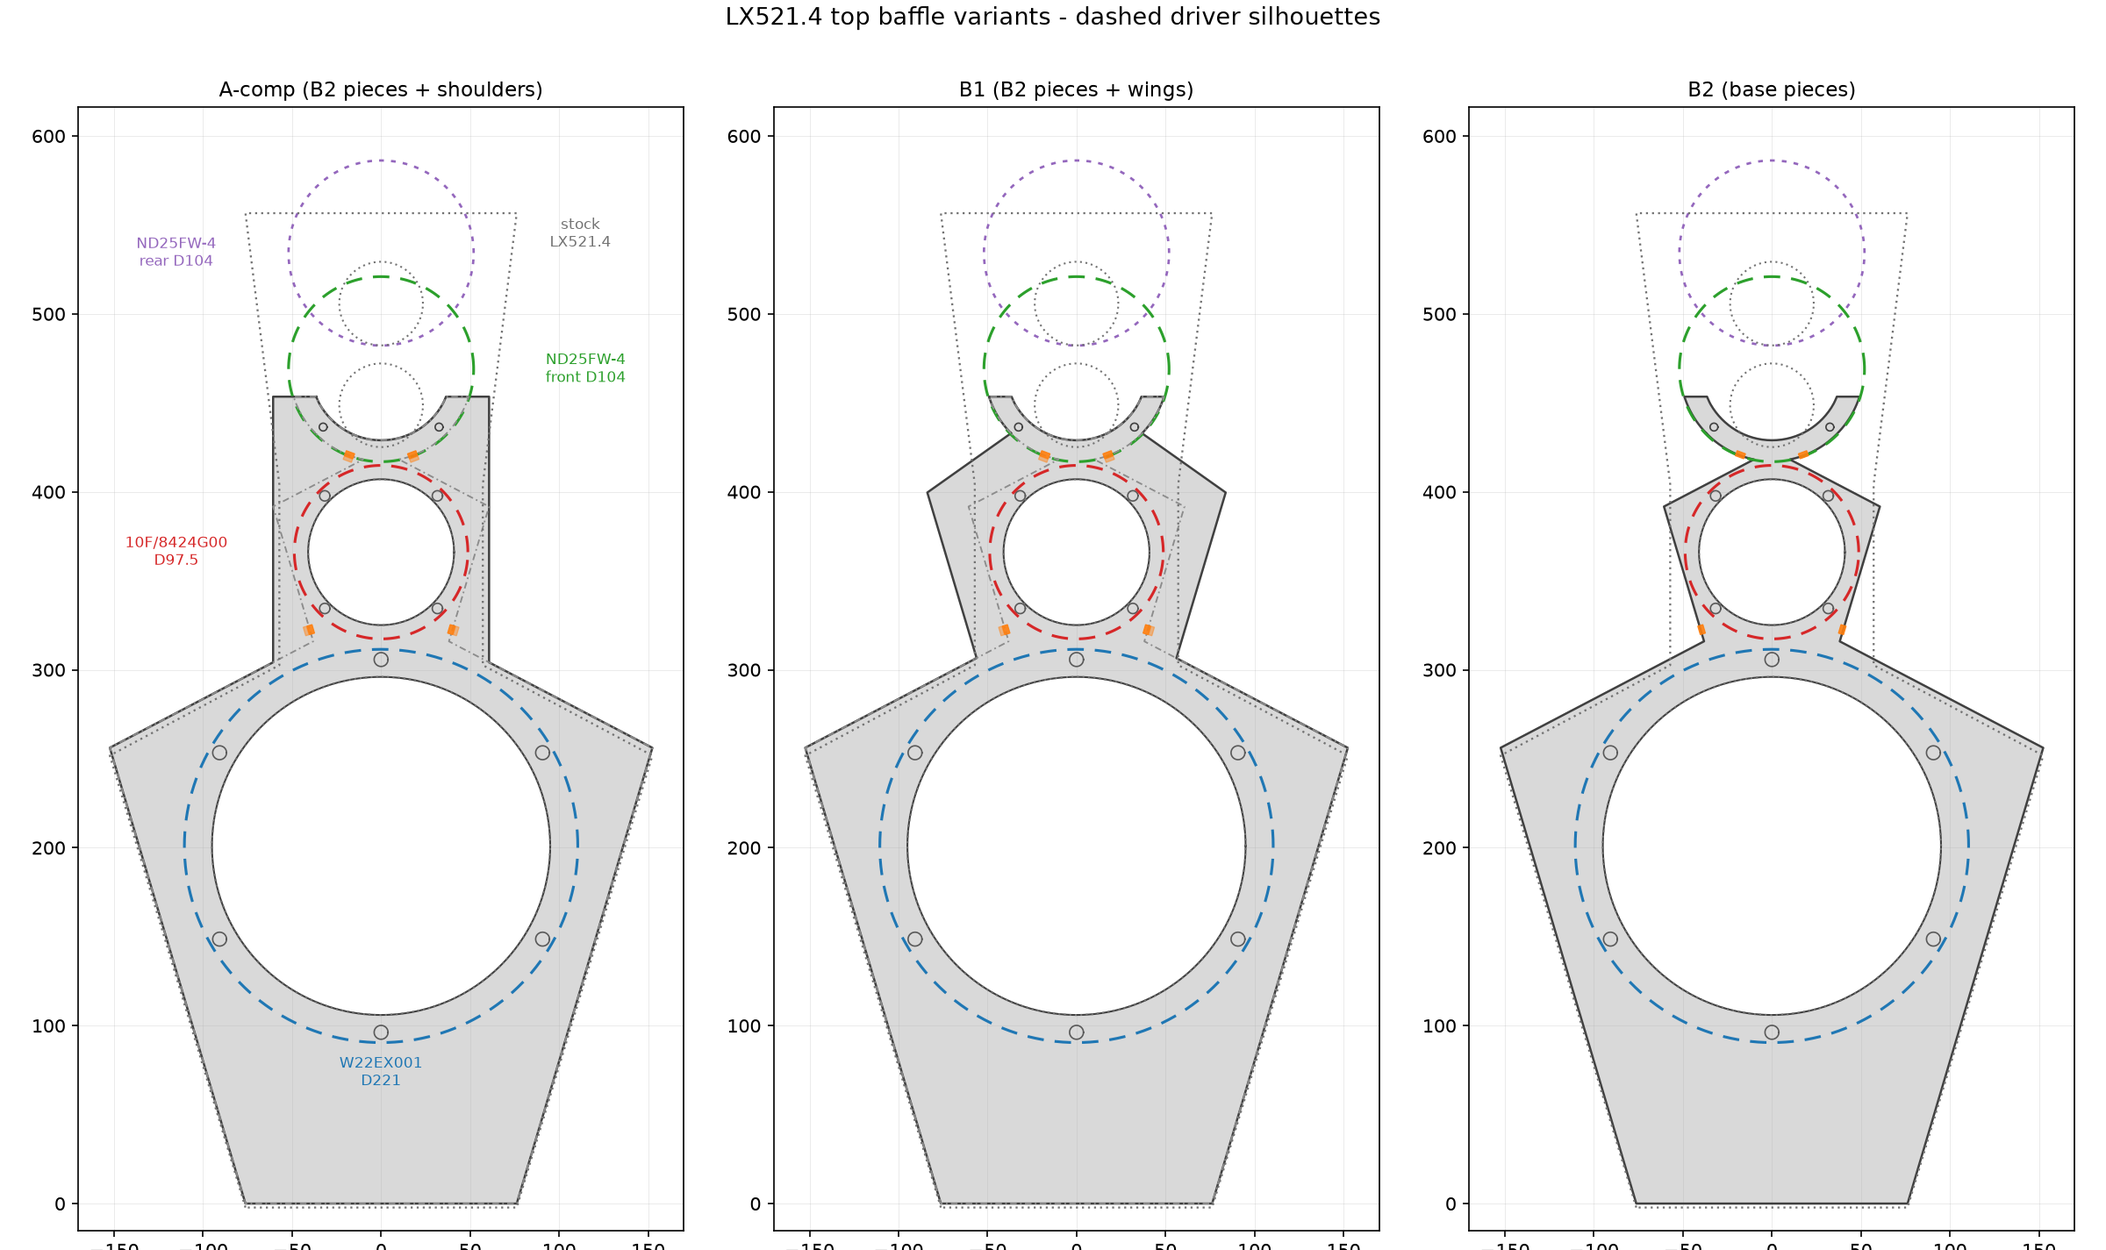
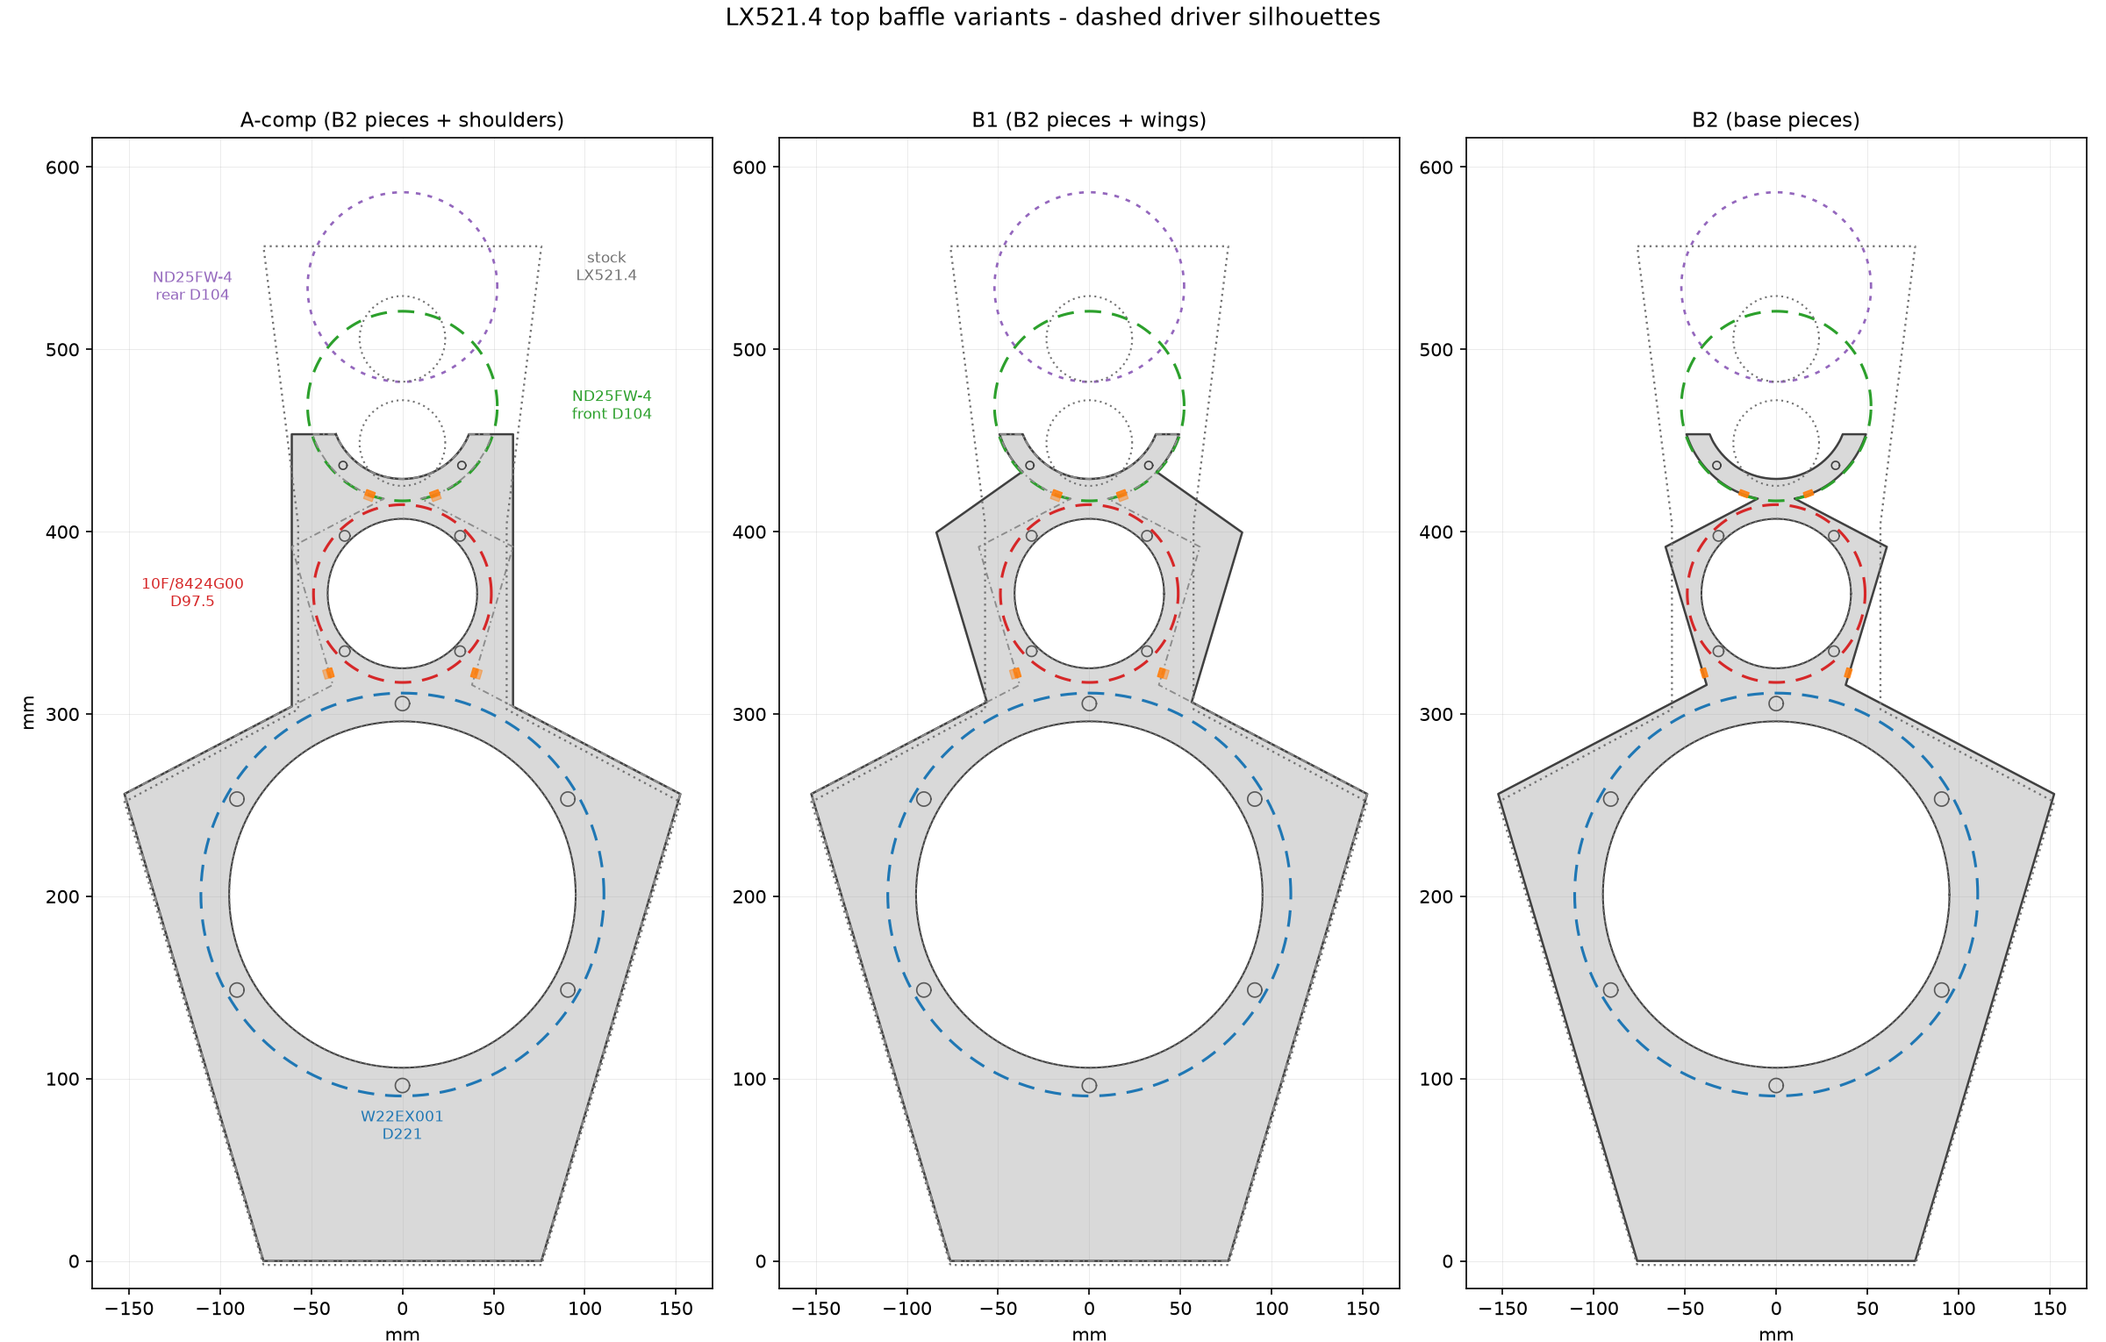
Make routing/overlay PNGs proper orthographic views
gen_cable_routing.py now renders front (x,y) + full-height side view
(z,y, shared height axis) for both stand-foot states, plus the foot
top view (x,z, shared width axis) and the legend in the spare grid
cell. The side view is computed from the real geometry (sampled duct
splines, ramp/exit axes, pilot depth bands, crescent taper profile via
_crescent_taper_depth), so the z story -- duct planes 9.15/3.7, blind
pilots, 4.0 clamp seat, R14 foot elbows, D20-window ramp dives -- is
finally drawn, not just described.

Also: fix clipped x tick labels and add mm axis labels on the variants
panel; derive the top-view plate band width instead of hardcoding 126;
move corner labels off the drawn geometry.

diff --git a/top_baffle_v2/gen_cable_routing.py b/top_baffle_v2/gen_cable_routing.py
@@ -1,8 +1,20 @@
-"""Render the internal cable routing over the B2 baffle. Faithful: samples
-the SAME build123d spline used to cut the ducts (no re-smoothing), plus the
-straight plan track of each entry ramp from its rear breakout."""
+"""Render the internal cable routing over the B2 baffle as a proper
+orthographic view set. Faithful: samples the SAME build123d splines used
+to cut the ducts (no re-smoothing) plus the straight ramp axes.
+
+  front view (x-y)   duct mains + breakout/exit markers over the outline
+  side view  (y-z)   full-height depth story, sharing y with the front
+                     view: duct planes (LM/UM z=9.15, T z=3.7), entry
+                     ramps / foot elbows, exit dives, blind pilot-bore
+                     bands, the crescent rear taper (clamp-arc section),
+                     and the stand foot with the NL8 channel
+  top view   (x-z)   STAND_FOOT only, sharing x with the front view:
+                     foot taper, packed lanes, channel and panel
+"""
 
 from __future__ import annotations
+
+import math
 
 import numpy as np
 import matplotlib
@@ -12,12 +24,28 @@ import matplotlib.pyplot as plt
 from build123d import Spline
 
 from gen_driver_overlay import draw
-from top_baffle_nd25fw4 import STAND_FOOT
+from top_baffle_nd25fw4 import (
+    CRESCENT_SCALLOP_CY,
+    L22_CUTOUT,
+    L22_PILOT_ANGLES_DEG,
+    L22_PILOT_D_MM,
+    L22_PILOT_DEPTH_MM,
+    L22_PILOT_PCD_MM,
+    STAND_FOOT,
+    THICKNESS_MM,
+    UM_CUTOUT,
+    UM_PILOT_ANGLES_DEG,
+    UM_PILOT_D_MM,
+    UM_PILOT_DEPTH_MM,
+    UM_PILOT_PCD_MM,
+    _crescent_taper_depth,
+)
 from top_baffle_nd25fw4_b import TWEETER_DROP_MM
 from top_baffle_nd25fw4_b2 import OUTLINE_B2
 from top_baffle_nd25fw4_cables import (
     BIG_RAMPS,
     CABLE_D,
+    EXIT_RAMPS,
     FOOT_LANES,
     SUPPORT_WINDOW,
     T_RAMP,
@@ -30,25 +58,148 @@ STYLE = {
     "t1": ("gold", "T1 2xAWG24, duct D3.8"),
     "t2": ("tab:red", "T2 2xAWG24, duct D3.8"),
 }
+TOP_Y = 468.314 - TWEETER_DROP_MM       # B2 top edge (453.46)
+TAPER_CY = CRESCENT_SCALLOP_CY - TWEETER_DROP_MM
 
 
-def duct_xy(name, n=400):
+def duct_xyz(name, n=400):
     path = Spline(*route_points(name))
-    return np.array([[(path @ (i / n)).X, (path @ (i / n)).Y] for i in range(n + 1)])
+    pts = [path @ (i / n) for i in range(n + 1)]
+    return np.array([[p.X, p.Y, p.Z] for p in pts])
 
 
 def breakout_xy(name):
     """Rear-face (z=0) crossing of the entry ramp -- where the cable
     emerges into the support plate's D20 window."""
-    if name in BIG_RAMPS:
-        p0, p1 = BIG_RAMPS[name]
-    else:
-        sign = 1.0 if name == "t1" else -1.0
-        p0 = (sign * T_RAMP[0][0], T_RAMP[0][1], T_RAMP[0][2])
-        p1 = (sign * T_RAMP[1][0], T_RAMP[1][1], T_RAMP[1][2])
+    p0, p1 = _ramp(name)
     t = -p0[2] / (p1[2] - p0[2])
     return np.array([p0[0] + t * (p1[0] - p0[0]),
                      p0[1] + t * (p1[1] - p0[1])])
+
+
+def _ramp(name):
+    if name in BIG_RAMPS:
+        return BIG_RAMPS[name]
+    sign = 1.0 if name == "t1" else -1.0
+    return (tuple(sign * v if i == 0 else v for i, v in enumerate(p))
+            for p in T_RAMP)
+
+
+def _foot_lane_yz(name):
+    """(y, z) polyline of the foot elbow + run, as swept by the cutter."""
+    x, z_d, y_f, r, dia = FOOT_LANES[name]
+    y_c, z_c = y_f + r, z_d - r
+    pts = [(y_c + 7.5, z_d), (y_c + 4.0, z_d)]
+    for a in range(0, 91, 6):
+        pts.append((y_c - r * math.sin(math.radians(a)),
+                    z_c + r * math.cos(math.radians(a))))
+    pts += [(y_f, z_c - 10.0), (y_f, -103.0)]
+    return np.array(pts)
+
+
+def _pilot_band_ys(center_y, pcd, angles):
+    return sorted({round(center_y + pcd / 2.0 * math.sin(math.radians(a)), 2)
+                   for a in angles})
+
+
+def draw_side_view(ax):
+    """Full-height y-z profile: plate slab, crescent rear taper, blind
+    pilot bands, duct depth lines, entries and exit dives, stand foot."""
+    # plate slab (front face at z=18.3, rear at z=0)
+    ax.add_patch(plt.Rectangle((0, 0), THICKNESS_MM, TOP_Y, fc="0.90",
+                               ec="0.35", lw=1.0, zorder=1))
+    # crescent rear taper: section along the clamp arc (r=44 about the
+    # scallop center) -- rear surface recedes to the 4.0 clamp seat and
+    # the ~0.4 horn feather
+    r_sec = 44.0
+    wedge = [(0.0, TAPER_CY - r_sec)]
+    th = -90.0
+    while th < -10.0:
+        y = TAPER_CY + r_sec * math.sin(math.radians(th))
+        if y > TOP_Y:
+            break
+        wedge.append((_crescent_taper_depth(th), y))
+        th += 1.5
+    wedge.append((wedge[-1][0], TOP_Y))
+    wedge.append((0.0, TOP_Y))
+    ax.add_patch(plt.Polygon(wedge, closed=True, fc="white", ec="0.4",
+                             ls="--", lw=0.9, zorder=2))
+    if STAND_FOOT:  # the no-foot panel is too narrow for text
+        ax.annotate("crescent rear taper\n(4.0 seat at the clamp ring)",
+                    (14.3, 436.4), (-148, 470), fontsize=8, color="0.3",
+                    arrowprops=dict(arrowstyle="-", color="0.5"))
+    # blind pilot bores, front face only (depth 11)
+    for cy, pcd, angles, dia, depth in (
+            (L22_CUTOUT[1], L22_PILOT_PCD_MM, L22_PILOT_ANGLES_DEG,
+             L22_PILOT_D_MM, L22_PILOT_DEPTH_MM),
+            (UM_CUTOUT[1], UM_PILOT_PCD_MM, UM_PILOT_ANGLES_DEG,
+             UM_PILOT_D_MM, UM_PILOT_DEPTH_MM)):
+        for y in _pilot_band_ys(cy, pcd, angles):
+            ax.add_patch(plt.Rectangle((THICKNESS_MM - depth, y - dia / 2),
+                                       depth, dia, fc="white", ec="0.45",
+                                       ls=":", lw=0.8, zorder=3))
+    if STAND_FOOT:
+        ax.annotate("blind pilot bores x11 deep\n(T ducts pass under the\n"
+                    "10F ring: 1.7 floor)", (7.3, 334.4), (-148, 320),
+                    fontsize=8, color="0.3",
+                    arrowprops=dict(arrowstyle="-", color="0.5"))
+    # duct mains (true z from the swept splines)
+    for name, (color, _) in STYLE.items():
+        pts = duct_xyz(name)
+        ax.plot(pts[:, 2], pts[:, 1], color=color, lw=CABLE_D[name] * 0.8,
+                alpha=0.55, solid_capstyle="round", zorder=6)
+    # exit dives into the driver cutouts (both states)
+    for name, (p0, p1, _dia) in EXIT_RAMPS.items():
+        color = STYLE[name][0]
+        ax.plot([p0[2], p1[2]], [p0[1], p1[1]], color=color, ls=":",
+                lw=CABLE_D[name] * 0.6, alpha=0.8, zorder=7)
+        ax.plot(p1[2], p1[1], marker="o", ms=6, mfc="white", mec=color,
+                zorder=8)
+    ax.plot(3.7, 433.5, marker="o", ms=5, mfc="white", mec=STYLE["t1"][0],
+            zorder=8)  # T scallop-rim exits (head-on at duct depth)
+    if STAND_FOOT:
+        # foot slab, NL8 panel, connector channel, lanes
+        ax.add_patch(plt.Rectangle((-150, 0), 150, 18.3, fc="0.90",
+                                   ec="0.35", lw=1.0, zorder=1))
+        ax.add_patch(plt.Rectangle((-150, 0), 4, 44, fc="0.62", ec="0.3",
+                                   lw=0.8, zorder=3))
+        ax.add_patch(plt.Rectangle((-146, 4), 47, 14.3, fc="white",
+                                   ec="0.4", ls="--", lw=0.9, zorder=2))
+        ax.add_patch(plt.Rectangle((-146, 5.25), 33, 30.5, fill=False,
+                                   ec="0.35", ls=":", lw=1.0, zorder=4))
+        ax.plot([-99, -99], [4, 18.3], color="0.4", lw=1.2, zorder=3)
+        for name, (color, _) in STYLE.items():
+            lane = _foot_lane_yz(name)
+            ax.plot(lane[:, 1], lane[:, 0], color=color,
+                    lw=FOOT_LANES[name][4] * 0.8, alpha=0.45,
+                    solid_capstyle="round", zorder=6)
+            ax.plot(-101, FOOT_LANES[name][2], marker="o", ms=5,
+                    mfc="white", mec=color, zorder=8)
+        ax.annotate("R14 elbows", (-5, 22), (-70, 40), fontsize=8,
+                    color="0.3", arrowprops=dict(arrowstyle="-",
+                                                 color="0.5"))
+        ax.annotate("step-face outs (z=-99)\nNL8 panel at z=-150",
+                    (-99, 30), (-145, 60), fontsize=8, color="0.3",
+                    arrowprops=dict(arrowstyle="-", color="0.5"))
+    else:
+        # entry ramps through the support window (rear face z=0)
+        for name in STYLE:
+            p0, p1 = _ramp(name)
+            color = STYLE[name][0]
+            ax.plot([p0[2], p1[2]], [p0[1], p1[1]], color=color, ls=":",
+                    lw=CABLE_D[name] * 0.6, alpha=0.8, zorder=7)
+            bo = breakout_xy(name)
+            ax.plot(0, bo[1], marker="s", ms=5, mfc=color, mec="0.2",
+                    zorder=8)
+    ax.axvline(0, color="0.6", lw=0.6, zorder=0)
+    ax.set_aspect("equal")
+    ax.tick_params(labelleft=False)
+    ax.set_xlabel("z (mm)")
+    label = ("side view (y-z)\nfront face at z=18.3" if STAND_FOOT
+             else "side\nview")
+    ax.text(0.04, 0.99, label, transform=ax.transAxes, fontsize=9,
+            color="0.25", va="top")
+    ax.grid(True, lw=0.3, alpha=0.4)
 
 
 def draw_foot_top_view(ax2):
@@ -57,13 +208,14 @@ def draw_foot_top_view(ax2):
     NL8MPXX panel, and the four packed duct runs to their step-face
     exits."""
     from top_baffle_nd25fw4_b2_split import (
-        CHANNEL_HALF_W, CHANNEL_STEP_Z, FOOT_DEPTH_REAR, NL8_SCREW_PITCH,
-        PANEL_T, TONGUE_HALF_W)
+        CHANNEL_HALF_W, CHANNEL_STEP_Z, FLANK_SLOPE, FOOT_DEPTH_REAR,
+        NL8_SCREW_PITCH, PANEL_T, TONGUE_HALF_W)
     h = TONGUE_HALF_W
     zp = -FOOT_DEPTH_REAR + PANEL_T  # panel inner face
-    # plate band (piece_bottom silhouette from above)
-    ax2.add_patch(plt.Rectangle((-126, 0), 252, 18.3, fc="0.94", ec="0.5",
-                                lw=0.8, zorder=0))
+    # plate band: piece_bottom's widest plan extent (at its y=170 tabs)
+    w_plate = 76.2 + FLANK_SLOPE * 170.0
+    ax2.add_patch(plt.Rectangle((-w_plate, 0), 2 * w_plate, 18.3,
+                                fc="0.94", ec="0.5", lw=0.8, zorder=0))
     # foot plan: one continuous taper, strip corners -> 38-wide panel
     foot_xy = [(-81.64, 0), (81.64, 0), (h, zp),
                (h, -FOOT_DEPTH_REAR), (-h, -FOOT_DEPTH_REAR), (-h, zp)]
@@ -105,75 +257,34 @@ def draw_foot_top_view(ax2):
     ax2.set_aspect("equal")
     ax2.set_ylim(-160, 24)
     ax2.set_ylabel("z (mm)")
-    ax2.text(0.01, 0.96, "foot - top view", transform=ax2.transAxes,
-             fontsize=9, color="0.25", va="top")
-
-
-def draw_foot_side_view(ax3):
-    """Side view (y-z profile, looking along x), z-aligned with the top
-    view: plate, foot slab, channel, NL8 body, panel, and the R14 duct
-    dives (LM/UM at z=9.15 -> y=10.5, T at z=3.7 -> y=5.5)."""
-    from top_baffle_nd25fw4_b2_split import (
-        CHANNEL_FLOOR, CHANNEL_STEP_Z, FOOT_DEPTH_REAR,
-        FOOT_THICK, NL8_CENTER_Y, NL8_CUTOUT_D, PANEL_H, PANEL_T)
-    zp = -FOOT_DEPTH_REAR + PANEL_T
-    ax3.add_patch(plt.Rectangle((0, 0), 58, 18.3, fc="0.94", ec="0.5",
-                                lw=0.8, zorder=0))
-    ax3.add_patch(plt.Rectangle((0, -FOOT_DEPTH_REAR), FOOT_THICK,
-                                FOOT_DEPTH_REAR, fc="0.88", ec="0.35",
-                                lw=1.0, zorder=1))
-    # channel profile (void between floor 4.0 and the open top)
-    ax3.add_patch(plt.Rectangle((CHANNEL_FLOOR, zp),
-                                FOOT_THICK - CHANNEL_FLOOR,
-                                CHANNEL_STEP_Z - zp, fc="white", ec="0.4",
-                                ls="--", lw=0.9, zorder=2))
-    # panel wall (rises to y=44) + NL8 body profile
-    ax3.add_patch(plt.Rectangle((0, -FOOT_DEPTH_REAR), PANEL_H, PANEL_T,
-                                fc="0.62", ec="0.3", lw=0.8, zorder=3))
-    ax3.add_patch(plt.Rectangle((NL8_CENTER_Y - NL8_CUTOUT_D / 2 + 0.25,
-                                 zp), NL8_CUTOUT_D - 0.5, 33, fill=False,
-                                ec="0.35", ls=":", lw=1.0, zorder=4))
-    for name, (color, _) in STYLE.items():
-        x, z_d, y_f, r, dia = FOOT_LANES[name]
-        y_c, z_c = y_f + r, z_d - r
-        ys, zs = [54.0], [z_d]
-        for a in range(0, 91, 6):
-            ys.append(y_c - r * np.sin(np.radians(a)))
-            zs.append(z_c + r * np.cos(np.radians(a)))
-        ys.append(y_f)
-        zs.append(CHANNEL_STEP_Z - 4.0)
-        ax3.plot(ys, zs, color=color, lw=dia * 0.8, alpha=0.45,
-                 solid_capstyle="round", zorder=6)
-        ax3.plot(y_f, CHANNEL_STEP_Z - 2.0, marker="o", ms=5, mfc="white",
-                 mec=color, zorder=8)
-    ax3.text(30, -22, "R14 elbows", fontsize=7, color="0.3")
-    ax3.set_aspect("equal")
-    ax3.set_xlim(-4, 60)
-    ax3.tick_params(labelleft=False)
-    ax3.set_xlabel("y (mm)")
-    ax3.text(0.04, 0.96, "side view", transform=ax3.transAxes,
-             fontsize=9, color="0.25", va="top")
+    ax2.text(0.02, 0.04, "foot - top view (x-z)", transform=ax2.transAxes,
+             fontsize=9, color="0.25", va="bottom")
+    ax2.grid(True, lw=0.3, alpha=0.4)
 
 
 if __name__ == "__main__":
     if STAND_FOOT:
-        fig = plt.figure(figsize=(9.6, 15.4), dpi=150)
-        gs = fig.add_gridspec(2, 2, height_ratios=[640, 195],
-                              width_ratios=[360, 80], hspace=0.05,
-                              wspace=0.06)
+        fig = plt.figure(figsize=(10.6, 15.6), dpi=150)
+        gs = fig.add_gridspec(2, 2, height_ratios=[640, 190],
+                              width_ratios=[340, 195], hspace=0.04,
+                              wspace=0.04)
         ax = fig.add_subplot(gs[0, 0])
-        ax2 = fig.add_subplot(gs[1, 0], sharex=ax)
-        ax3 = fig.add_subplot(gs[1, 1], sharey=ax2)
-        fig.add_subplot(gs[0, 1]).axis("off")
+        ax_side = fig.add_subplot(gs[0, 1], sharey=ax)
+        ax_top = fig.add_subplot(gs[1, 0], sharex=ax)
+        ax_leg = fig.add_subplot(gs[1, 1])
+        ax_leg.axis("off")
     else:
-        fig, ax = plt.subplots(figsize=(8, 12), dpi=150)
-        ax2 = ax3 = None
+        fig = plt.figure(figsize=(9.8, 12.6), dpi=150)
+        gs = fig.add_gridspec(1, 2, width_ratios=[340, 55], wspace=0.04)
+        ax = fig.add_subplot(gs[0, 0])
+        ax_side = fig.add_subplot(gs[0, 1], sharey=ax)
+        ax_top = ax_leg = None
     draw(ax, OUTLINE_B2, TWEETER_DROP_MM, "B2 - internal cable ducts (as modeled)")
     for name, (color, label) in STYLE.items():
-        pts = duct_xy(name)
+        pts = duct_xyz(name)
         ax.plot(pts[:, 0], pts[:, 1], color=color, lw=CABLE_D[name], alpha=0.55,
                 solid_capstyle="round", zorder=7, label=label)
-        ax.plot(*pts[-1], marker="o", ms=7, mfc="white", mec=color, zorder=8)
+        ax.plot(*pts[-1][:2], marker="o", ms=7, mfc="white", mec=color, zorder=8)
         if STAND_FOOT:
             # elbow dive + run rearward through the foot (into the page),
             # exiting the channel step face just short of the NL8 panel
@@ -197,10 +308,12 @@ if __name__ == "__main__":
             for sy in (5.9, 35.1):
                 ax.plot(sx, sy, marker="o", ms=3, mfc="none", mec="0.4",
                         zorder=6)
-        ax.annotate("foot lanes -> step-face exits (z=-99),\n"
-                    "NL8MPXX panel at foot end (z=-150)", (17, 12), (46, 8),
+        ax.annotate("cables dive into the packed foot lanes\n"
+                    "(see side and top views)", (17, 12), (46, 8),
                     fontsize=8, color="0.3",
                     arrowprops=dict(arrowstyle="-", color="0.5"))
+        ax_leg.legend(*ax.get_legend_handles_labels(), loc="center",
+                      fontsize=9, framealpha=0.9)
     else:
         # D20 window in the support plate: all four cables pass here
         wx, wy, wd = SUPPORT_WINDOW
@@ -210,12 +323,13 @@ if __name__ == "__main__":
                     "upper screw line y=70)", (wx + wd / 2, wy), (46, 40),
                     fontsize=8, color="0.3",
                     arrowprops=dict(arrowstyle="-", color="0.5"))
-    ax.legend(loc="lower left", fontsize=8, framealpha=0.9)
+        ax.legend(loc="lower left", fontsize=8, framealpha=0.9)
     ax.set_xlabel("mm"); ax.set_ylabel("mm")
+    draw_side_view(ax_side)
+    ax_side.set_xlim((-160, 26) if STAND_FOOT else (-14, 26))
     if STAND_FOOT:
-        draw_foot_top_view(ax2)
-        draw_foot_side_view(ax3)
-        ax2.set_xlabel("mm")
+        draw_foot_top_view(ax_top)
+        ax_top.set_xlabel("mm")
     fig.tight_layout()
     fig.savefig("baffle_cable_routing.png")
     print("wrote baffle_cable_routing.png")

diff --git a/top_baffle_v2/gen_driver_overlay.py b/top_baffle_v2/gen_driver_overlay.py
@@ -200,11 +200,13 @@ VARIANTS = [
 ]
 
 if __name__ == "__main__":
-    fig, axes = plt.subplots(1, 3, figsize=(16, 9.5), dpi=150)
+    fig, axes = plt.subplots(1, 3, figsize=(16, 10.2), dpi=150)
     for ax, (outline, title, joint) in zip(axes, VARIANTS):
         draw(ax, outline, TWEETER_DROP_MM, title, labels=(ax is axes[0]), joint_outline=joint)
+        ax.set_xlabel("mm")
+    axes[0].set_ylabel("mm")
     fig.suptitle("LX521.4 top baffle variants - dashed driver silhouettes", fontsize=13, y=0.995)
-    fig.tight_layout(rect=(0.0, 0.0, 1.0, 0.965))
+    fig.tight_layout(rect=(0.0, 0.0, 1.0, 0.97))
     fig.savefig("baffle_variants_drivers.png")
     plt.close(fig)
     print("wrote baffle_variants_drivers.png")
